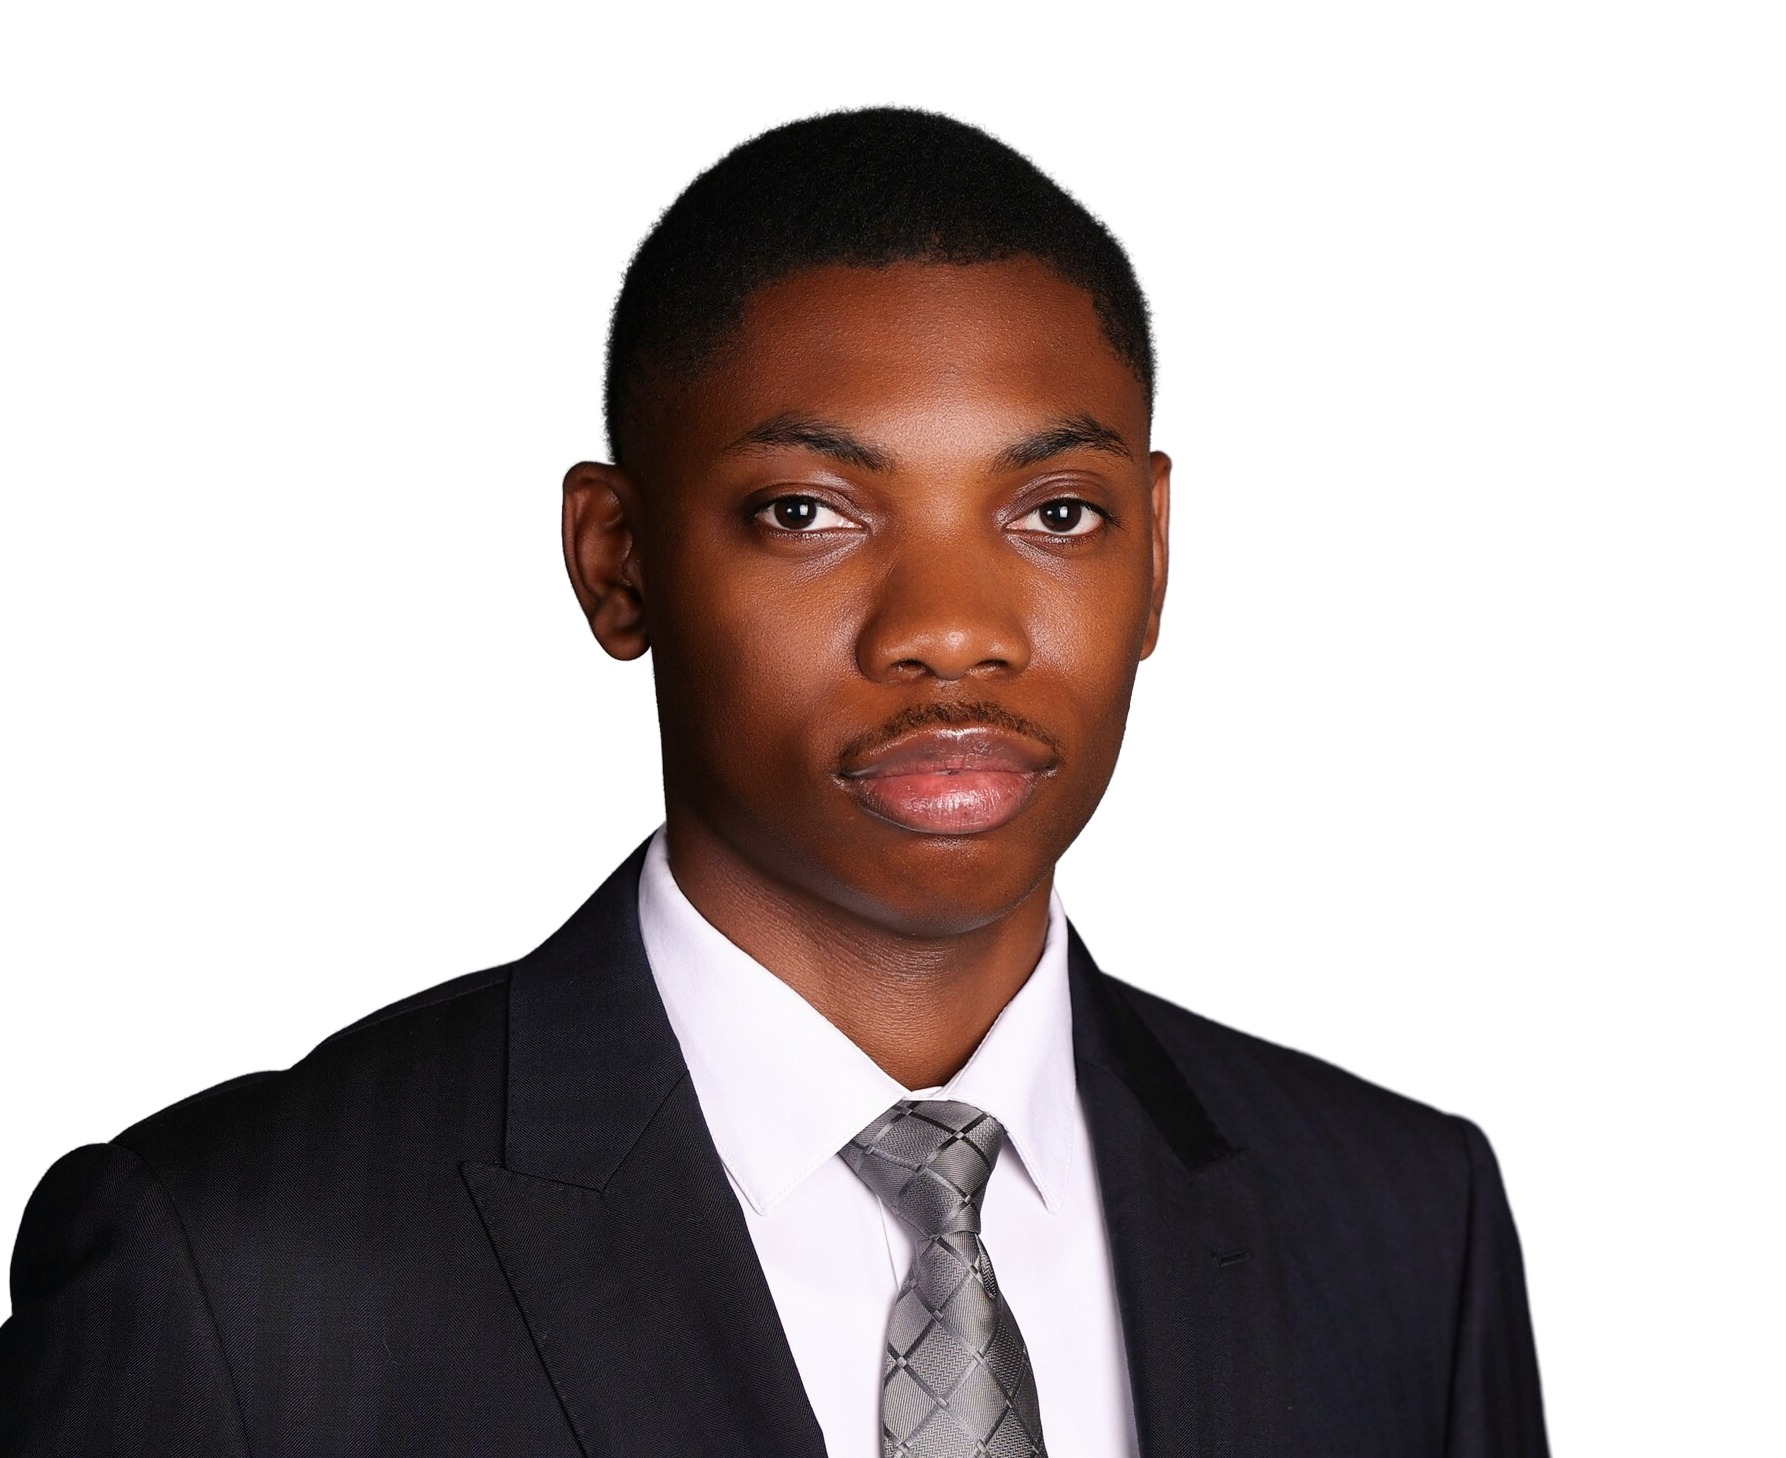
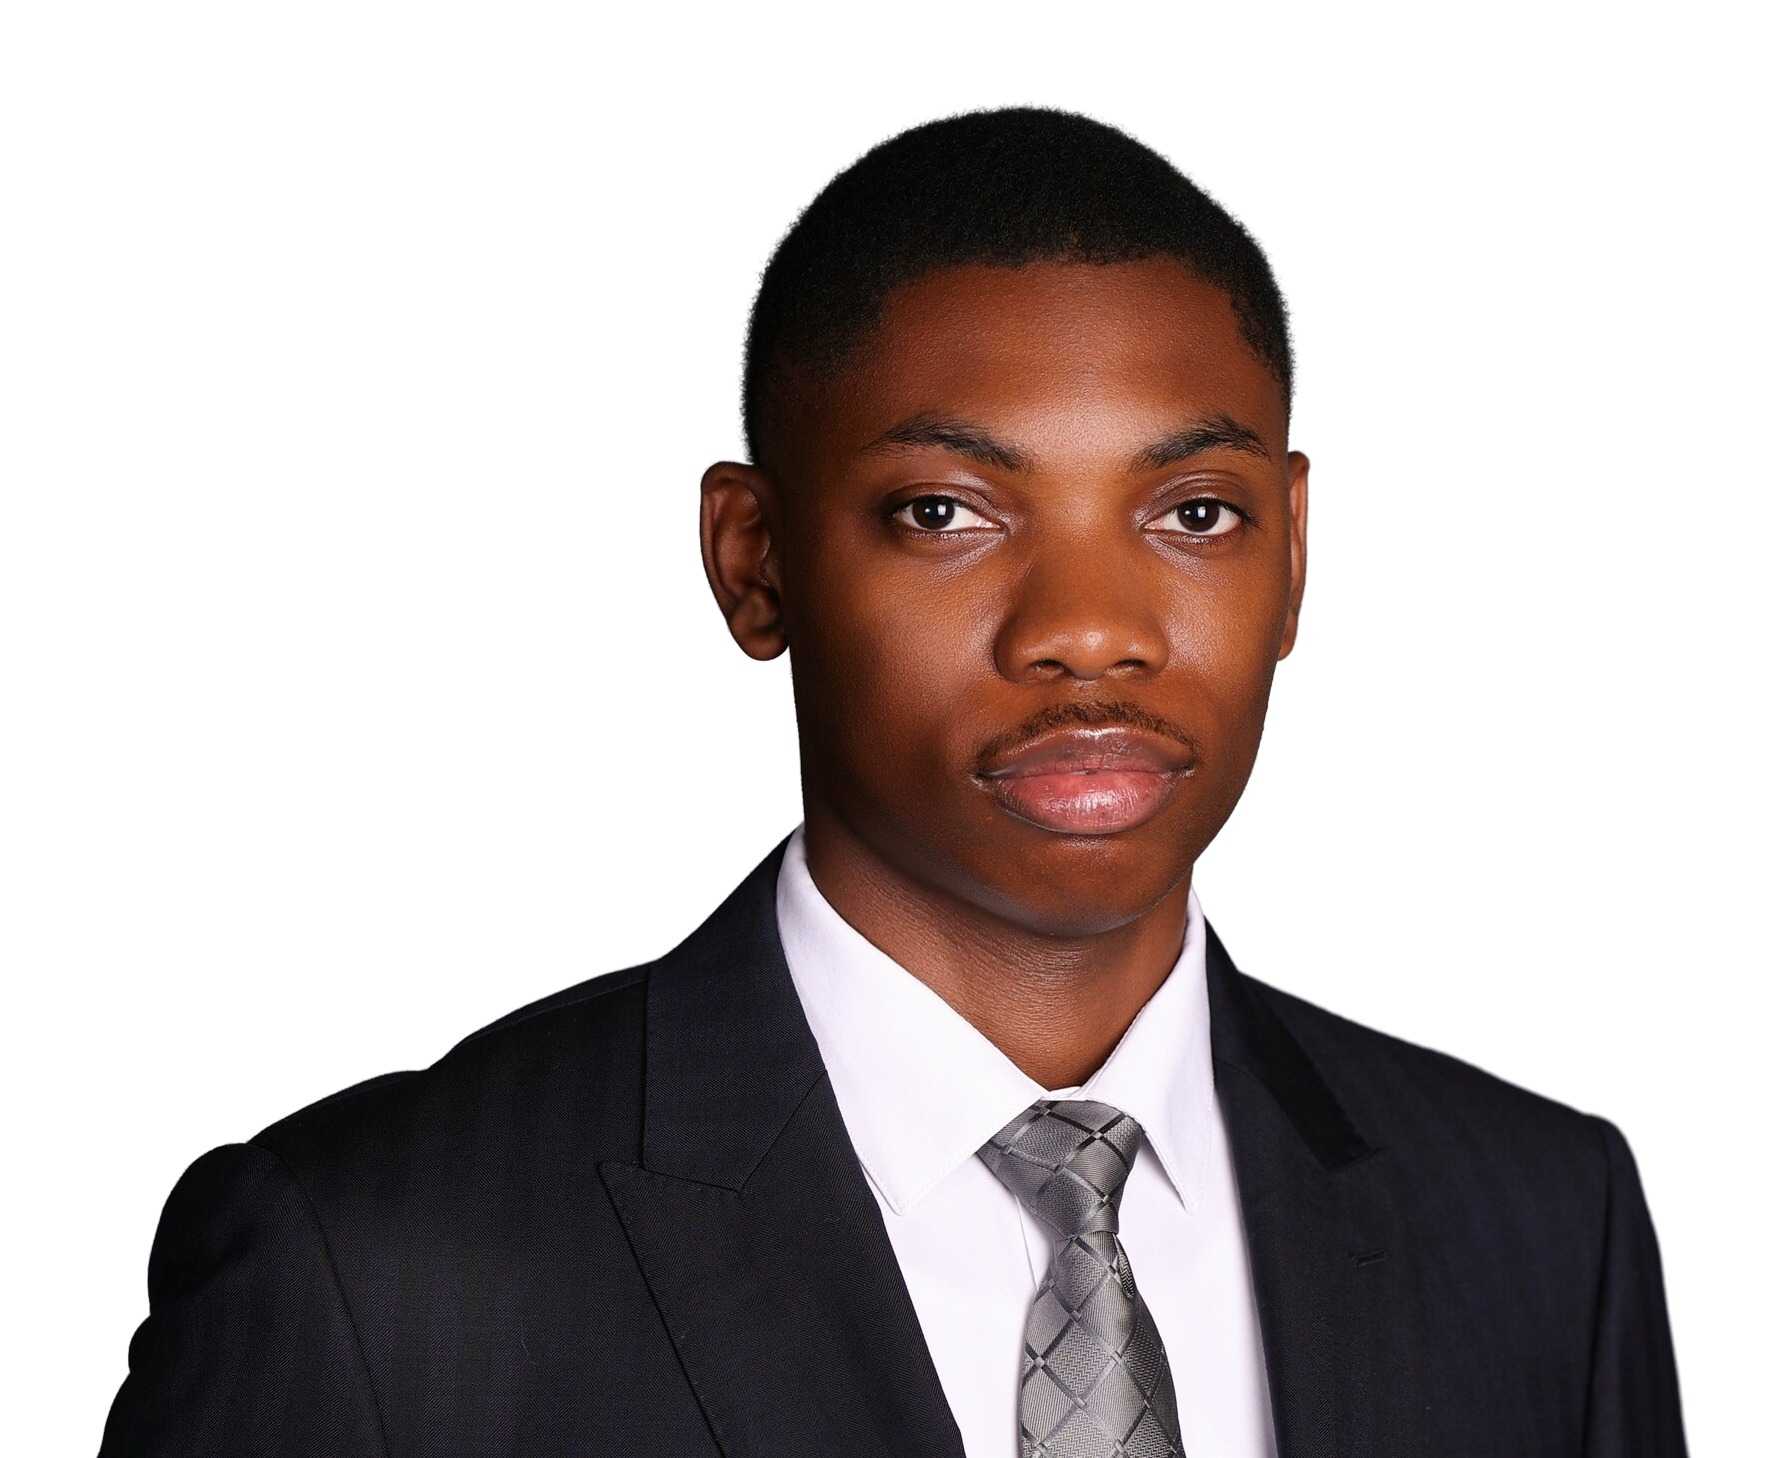
Recenter Vianney's photo and thicken photo border to 2px (#11)
His angled pose meant the true shoulder/body width wasn't centered
under the head, so one shoulder crowded the right edge of the crop
with almost no margin while the other side had excess space. Recentered
the crop on the body's actual bounding box (measured across the full
visible region, not just head position) for even margins on both sides.

Also increased the leadership photo border from 1px to 2px per feedback.

Claude-Session: https://claude.ai/code/session_01X4CJ8SMEQuGrLGJigFrvQb

diff --git a/app/globals.css b/app/globals.css
@@ -2191,7 +2191,7 @@ input:-webkit-autofill:active {
   max-width:       490px;
   background:      #e8e8e8;
   border-radius:   12px;
-  border:          1px solid rgba(10,17,40,0.12);
+  border:          2px solid rgba(10,17,40,0.12);
   display:         flex;
   align-items:     center;
   justify-content: center;
@@ -2226,7 +2226,7 @@ input:-webkit-autofill:active {
 }
 
 /* ── Leadership page: profile card image height ── */
-.lp-person-img { height: 280px; border: 1px solid rgba(10,17,40,0.12); }
+.lp-person-img { height: 280px; border: 2px solid rgba(10,17,40,0.12); }
 
 @media (min-width: 480px) and (max-width: 600px) {
   .lp-person-card { max-width: 350px !important; margin: 0 auto !important; }
